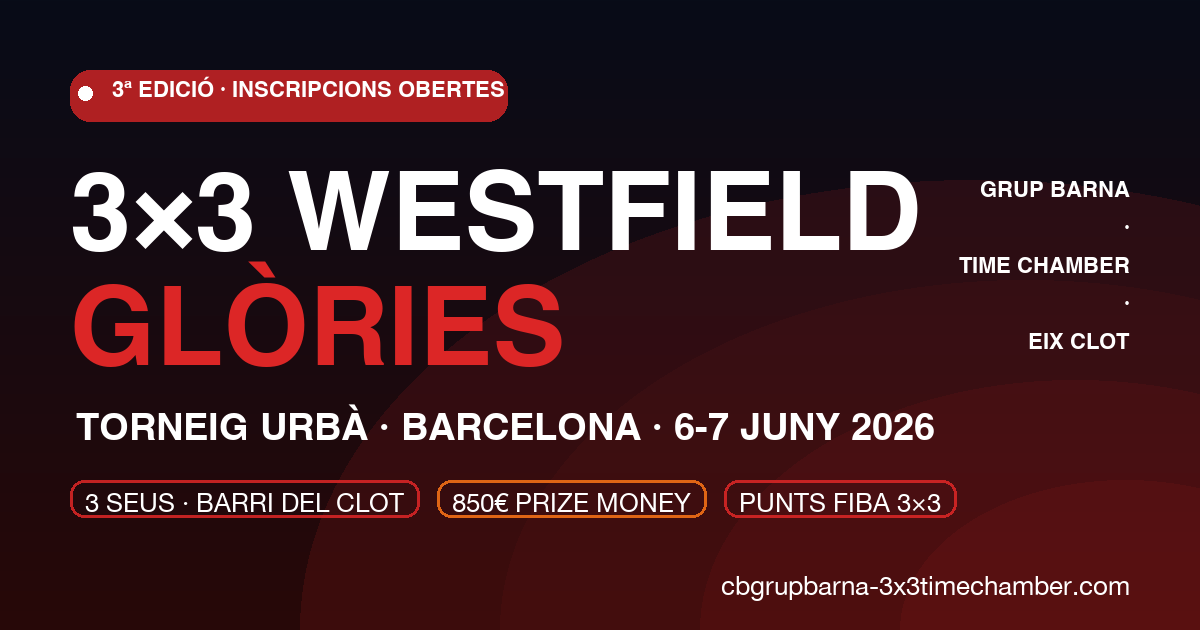
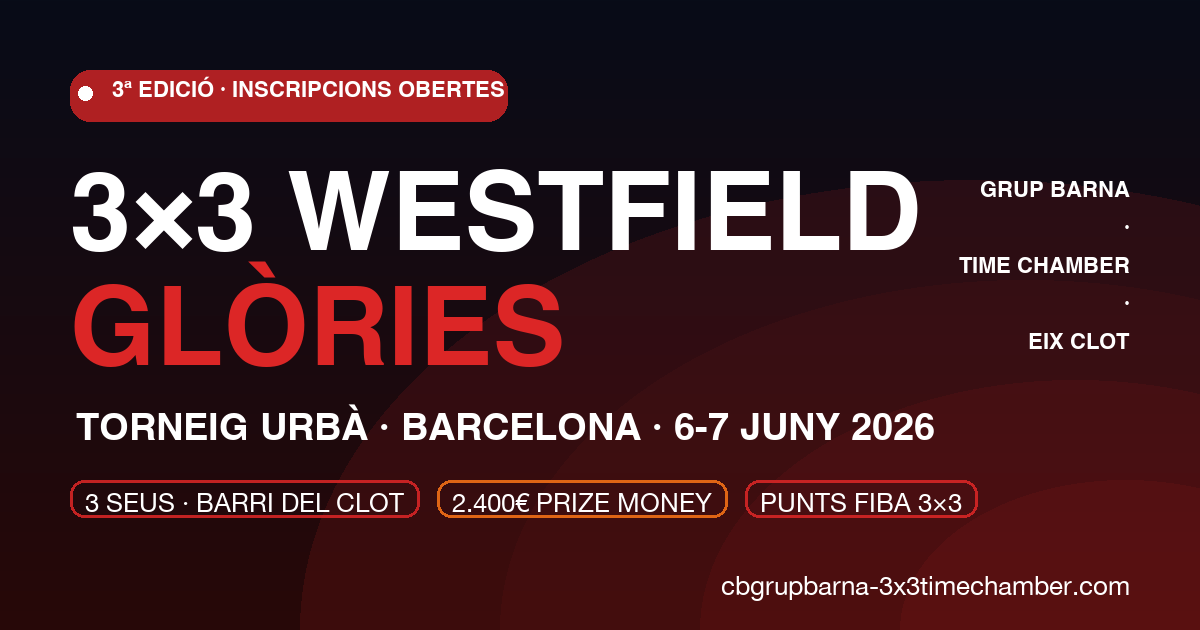
Prize money: 850€ → 2.400€ across 6 categories (Senior A/B + Veterans M/F)
New payout structure (only 1st place gets cash):
- Senior A · Femení / Masculí: 800€ each
- Senior B · Femení / Masculí: 300€ each
- Veterans · Femení / Masculí: 200€ each
Total: 2.400€

2nd place: copa · 3rd place: medalles · plus comerços-collaborator gifts.

Updated:
- prizes[] in Home.tsx: 6 entries with 'Top Categoria' featured badge
  for Senior A
- Premis section: 3-col grid responsive, total badge on top, 2n/3r/bonus
  comerços row, kept FIBA + trofeus + material chips
- og-image.png regenerated: '850€ PRIZE MONEY' → '2.400€ PRIZE MONEY'
- index.html meta description, og:description, twitter:description
- schema.org SportsEvent 'award' field with full breakdown
- WhatsApp share texts (floating button + viral gate slot 1)

Changed region(s): [[0.37, 0.754, 0.8017, 0.8444]]

diff --git a/src/pages/Home.tsx b/src/pages/Home.tsx
@@ -165,11 +165,17 @@ const categories = [
   { name: "PREMINI · BENJ · ALEV", gender: "♂", desc: "Iniciació i diversió garantida", color: "from-amber-500/15 to-amber-600/10", badge: "INICIACIÓ", price: "70€ (4 jug.)" },
 ];
 
+/* Premi econòmic per categoria — només pel 1r classificat. 2n: copa. 3r: medalles.
+   Total Prize Money 2026: 2.400€ */
 const prizes = [
-  { pos: "🥇", ord: "1r", label: "Primer Classificat", amount: "500€", plus: "+ Trofeu + Samarretes", color: "from-yellow-400/20 to-yellow-600/10 border-yellow-400/40" },
-  { pos: "🥈", ord: "2n", label: "Segon Classificat", amount: "250€", plus: "+ Trofeu + Samarretes", color: "from-slate-300/20 to-slate-500/10 border-slate-300/40" },
-  { pos: "🥉", ord: "3r", label: "Tercer Classificat", amount: "100€", plus: "+ Trofeu", color: "from-orange-400/20 to-orange-600/10 border-orange-400/40" },
+  { cat: "Senior A · Femení",   amount: "800€", color: "from-red-500/25 to-orange-500/15 border-red-400/50",       featured: true },
+  { cat: "Senior A · Masculí",  amount: "800€", color: "from-red-500/25 to-orange-500/15 border-red-400/50",       featured: true },
+  { cat: "Senior B · Femení",   amount: "300€", color: "from-amber-500/15 to-yellow-500/10 border-amber-400/40",   featured: false },
+  { cat: "Senior B · Masculí",  amount: "300€", color: "from-amber-500/15 to-yellow-500/10 border-amber-400/40",   featured: false },
+  { cat: "Veterans · Femení",   amount: "200€", color: "from-slate-400/15 to-slate-500/10 border-slate-300/30",    featured: false },
+  { cat: "Veterans · Masculí",  amount: "200€", color: "from-slate-400/15 to-slate-500/10 border-slate-300/30",    featured: false },
 ];
+const PRIZE_MONEY_TOTAL = "2.400€";
 
 const rules = [
   { icon: "🏀", title: "Mitja pista", desc: "Pista de 15×11 m amb un sol aro" },
@@ -396,7 +402,7 @@ export default function Home() {
 
       {/* ══ WHATSAPP SHARE FAB (viral hook — always visible) ══ */}
       <a
-        href={`https://wa.me/?text=${encodeURIComponent("🏀 3×3 Westfield Glòries 2026 · Torneig FIBA a Barcelona · 850€ Prize Money · 6-7 Juny · Places limitades! 👉 https://cbgrupbarna-3x3timechamber.com/")}`}
+        href={`https://wa.me/?text=${encodeURIComponent("🏀 3×3 Westfield Glòries 2026 · Torneig FIBA a Barcelona · 2.400€ Prize Money en 6 categories · 6-7 Juny · Places limitades! 👉 https://cbgrupbarna-3x3timechamber.com/")}`}
         target="_blank"
         rel="noopener noreferrer"
         aria-label="Comparteix el torneig per WhatsApp"
@@ -705,29 +711,77 @@ export default function Home() {
       <section id="premis" className="py-20 bg-slate-900 scroll-mt-20">
         <div className="container mx-auto px-4">
           <motion.div variants={fadeUp} initial="hidden" whileInView="visible" viewport={{ once: true }} className="text-center mb-12">
-            <span className="text-red-400 text-xs font-bold uppercase tracking-[0.2em] mb-3 block">Senior Pro · Prize Money</span>
-            <h2 className="text-4xl md:text-5xl font-black" style={{ fontFamily: "'Rajdhani', sans-serif" }}>
+            <span className="text-red-400 text-xs font-bold uppercase tracking-[0.2em] mb-3 block">Edició 2026 · Prize Money</span>
+            <h2 className="text-4xl md:text-5xl font-black mb-3" style={{ fontFamily: "'Rajdhani', sans-serif" }}>
               PREMIS <span className="text-red-500">& TROFEUS</span>
             </h2>
+            <div className="inline-flex items-center gap-3 mt-2 px-5 py-2 rounded-full bg-gradient-to-r from-red-600/20 to-orange-500/20 border border-orange-400/40">
+              <span className="text-xs font-bold uppercase tracking-widest text-orange-300">Total Prize Money</span>
+              <span className="text-2xl font-black font-mono text-white">{PRIZE_MONEY_TOTAL}</span>
+            </div>
+            <p className="text-white/40 text-sm mt-4 max-w-xl mx-auto">
+              Repartit en 6 categories. Premi econòmic <strong className="text-white/70">només pel 1r classificat</strong> de cada categoria.
+            </p>
           </motion.div>
-          <div className="grid sm:grid-cols-3 gap-5 max-w-3xl mx-auto mb-10">
+
+          {/* Grid 6 categories */}
+          <div className="grid grid-cols-1 sm:grid-cols-2 lg:grid-cols-3 gap-4 max-w-5xl mx-auto mb-10">
             {prizes.map((prize, i) => (
-              <motion.div key={prize.ord} variants={fadeUp} initial="hidden" whileInView="visible" viewport={{ once: true }} custom={i * 0.3}
-                whileHover={{ scale: 1.04, y: -4 }}
-                className={`relative bg-gradient-to-br ${prize.color} border rounded-2xl p-6 text-center`}>
-                <div className="text-4xl mb-2">{prize.pos}</div>
-                <div className="text-xs uppercase tracking-wider text-white/50 mb-1">{prize.label}</div>
+              <motion.div
+                key={prize.cat}
+                variants={fadeUp}
+                initial="hidden"
+                whileInView="visible"
+                viewport={{ once: true }}
+                custom={i * 0.15}
+                whileHover={{ scale: 1.03, y: -3 }}
+                className={`relative bg-gradient-to-br ${prize.color} border rounded-2xl p-5 text-center backdrop-blur`}
+              >
+                {prize.featured && (
+                  <span className="absolute -top-2 left-1/2 -translate-x-1/2 px-3 py-0.5 rounded-full bg-red-600 text-white text-[10px] font-bold uppercase tracking-widest shadow-lg">
+                    Top Categoria
+                  </span>
+                )}
+                <div className="text-3xl mb-2">🥇</div>
+                <div className="text-xs uppercase tracking-wider text-white/60 mb-1 font-bold">{prize.cat}</div>
                 <div className="text-3xl font-black font-mono text-white mb-1">{prize.amount}</div>
-                <div className="text-xs text-white/40">{prize.plus}</div>
+                <div className="text-[10px] text-white/40 uppercase tracking-wider">al 1r classificat</div>
               </motion.div>
             ))}
           </div>
+
+          {/* 2n + 3r + comerços */}
+          <motion.div variants={fadeUp} initial="hidden" whileInView="visible" viewport={{ once: true }} className="max-w-3xl mx-auto grid grid-cols-1 sm:grid-cols-3 gap-3 mb-8">
+            <div className="flex items-center gap-3 bg-white/5 border border-white/10 rounded-xl p-4">
+              <span className="text-2xl">🥈</span>
+              <div>
+                <div className="font-bold text-sm text-white">2n classificat</div>
+                <div className="text-xs text-white/40">Copa oficial</div>
+              </div>
+            </div>
+            <div className="flex items-center gap-3 bg-white/5 border border-white/10 rounded-xl p-4">
+              <span className="text-2xl">🥉</span>
+              <div>
+                <div className="font-bold text-sm text-white">3r classificat</div>
+                <div className="text-xs text-white/40">Medalles</div>
+              </div>
+            </div>
+            <div className="flex items-center gap-3 bg-orange-500/10 border border-orange-400/30 rounded-xl p-4">
+              <span className="text-2xl">🎁</span>
+              <div>
+                <div className="font-bold text-sm text-white">Bonus comerços</div>
+                <div className="text-xs text-white/40">Sortejos i regals dels patrocinadors locals</div>
+              </div>
+            </div>
+          </motion.div>
+
+          {/* Resta d'avantatges */}
           <motion.div variants={fadeUp} initial="hidden" whileInView="visible" viewport={{ once: true }} className="max-w-3xl mx-auto grid sm:grid-cols-3 gap-4">
             {[
               { icon: <Star className="w-4 h-4" />, title: "Punts FIBA 3x3", desc: "Rànquing mundial oficial" },
-              { icon: <Medal className="w-4 h-4" />, title: "Trofeus", desc: "Per als 3 primers de totes les categories" },
+              { icon: <Medal className="w-4 h-4" />, title: "Trofeus i medalles", desc: "Per als 3 primers de totes les categories" },
               { icon: <Zap className="w-4 h-4" />, title: "Material esportiu", desc: "Lots per als equips participants" },
-            ].map((item, i) => (
+            ].map((item) => (
               <div key={item.title} className="flex items-start gap-3 bg-white/5 border border-white/10 rounded-xl p-4">
                 <span className="text-red-400 mt-0.5">{item.icon}</span>
                 <div>
@@ -737,6 +791,7 @@ export default function Home() {
               </div>
             ))}
           </motion.div>
+
           <motion.div variants={fadeUp} initial="hidden" whileInView="visible" viewport={{ once: true }} className="text-center mt-8">
             <Link to="/inscripcion">
               <Button size="lg" className="bg-red-600 hover:bg-red-500 text-white font-bold uppercase tracking-wider px-10 py-5 rounded-xl hover:scale-105 transition-transform shadow-xl">

diff --git a/index.html b/index.html
@@ -8,7 +8,7 @@
 
     <!-- Primary SEO -->
     <title>3×3 Westfield Glòries 2026 · Torneig FIBA Barcelona | Inscripcions Obertes</title>
-    <meta name="description" content="El torneig 3×3 més potent de Barcelona. Punts FIBA, 850€ prize money. 6-7 Juny 2026 al Clot-Glòries. Categories de Premini a Senior Pro. Inscriu-te ja!" />
+    <meta name="description" content="El torneig 3×3 més potent de Barcelona. Punts FIBA, 2.400€ prize money en 6 categories (Senior A/B + Veterans M/F). 6-7 Juny 2026 al Clot-Glòries. Inscriu-te ja!" />
     <meta name="keywords" content="3x3 Barcelona, torneig 3x3 FIBA, Westfield Glòries, basquet 3x3, basquet de carrer Barcelona, CB Grup Barna, Time Chamber, prize money 3x3, ranking FIBA 3x3, Sant Martí, Clot, Barcelona basquet" />
     <meta name="author" content="CB Grup Barna · Time Chamber · Eix Clot" />
     <meta name="publisher" content="CB Grup Barna" />
@@ -36,7 +36,7 @@
     <meta property="og:type" content="website" />
     <meta property="og:site_name" content="3×3 Westfield Glòries" />
     <meta property="og:title" content="3×3 Westfield Glòries 2026 · Torneig FIBA Barcelona" />
-    <meta property="og:description" content="El torneig 3×3 més potent de Barcelona. Punts FIBA, 850€ prize money. 6-7 Juny 2026 al Clot-Glòries. Inscriu-te ja!" />
+    <meta property="og:description" content="El torneig 3×3 més potent de Barcelona. Punts FIBA, 2.400€ prize money en 6 categories. 6-7 Juny 2026 al Clot-Glòries. Inscriu-te ja!" />
     <meta property="og:url" content="https://cbgrupbarna-3x3timechamber.com/" />
     <meta property="og:image" content="https://cbgrupbarna-3x3timechamber.com/og-image.png" />
     <meta property="og:image:secure_url" content="https://cbgrupbarna-3x3timechamber.com/og-image.png" />
@@ -48,7 +48,7 @@
     <!-- Twitter / X Cards -->
     <meta name="twitter:card" content="summary_large_image" />
     <meta name="twitter:title" content="3×3 Westfield Glòries 2026 · Barcelona" />
-    <meta name="twitter:description" content="Torneig 3×3 FIBA · 850€ prize money · 6-7 Juny 2026. Places limitades — inscriu-te ja!" />
+    <meta name="twitter:description" content="Torneig 3×3 FIBA · 2.400€ prize money · 6 categories · 6-7 Juny 2026. Places limitades — inscriu-te ja!" />
     <meta name="twitter:image" content="https://cbgrupbarna-3x3timechamber.com/og-image.png" />
     <meta name="twitter:image:alt" content="3×3 Westfield Glòries 2026" />
 
@@ -161,7 +161,7 @@
         "@type": "PerformingGroup",
         "name": "Equips participants 3×3"
       },
-      "award": "Prize money 850€ (500€ + 250€ + 100€) + Punts FIBA 3×3 + Trofeus + Material esportiu"
+      "award": "Prize money 2.400€ en 6 categories: Senior A M/F 800€ · Senior B M/F 300€ · Veterans M/F 200€. + Punts FIBA 3×3 + Trofeus + Medalles + Premis dels comerços col·laboradors"
     }
     </script>
 

diff --git a/src/pages/Inscripcion.tsx b/src/pages/Inscripcion.tsx
@@ -92,7 +92,7 @@ function calcTotal(mida: string, desc5pct: boolean, descInvite10pct: boolean = f
 
 /* ─── Textos de WhatsApp (variados para no parecer spam) ─── */
 const SHARE_TEXTS = [
-  "🏀 Ei! Munto equip pel 3×3 Westfield Glòries (6-7 Juny · Barcelona). 850€ Prize Money i punts FIBA. T'apuntes?",
+  "🏀 Ei! Munto equip pel 3×3 Westfield Glòries (6-7 Juny · Barcelona). 2.400€ Prize Money en 6 categories i punts FIBA. T'apuntes?",
   "🔥 Quintet o què? 3×3 al barri del Clot els 6-7 Juny. Premis, samarretes i festa. Necessito gent!",
   "Hey! Inscripcions obertes 3×3 Westfield Glòries 2026 · Barcelona. Em vens?",
   "🏆 3×3 Barcelona 6-7 Juny · 500€ al guanyador, FIBA points. Apunta't amb mi!",
